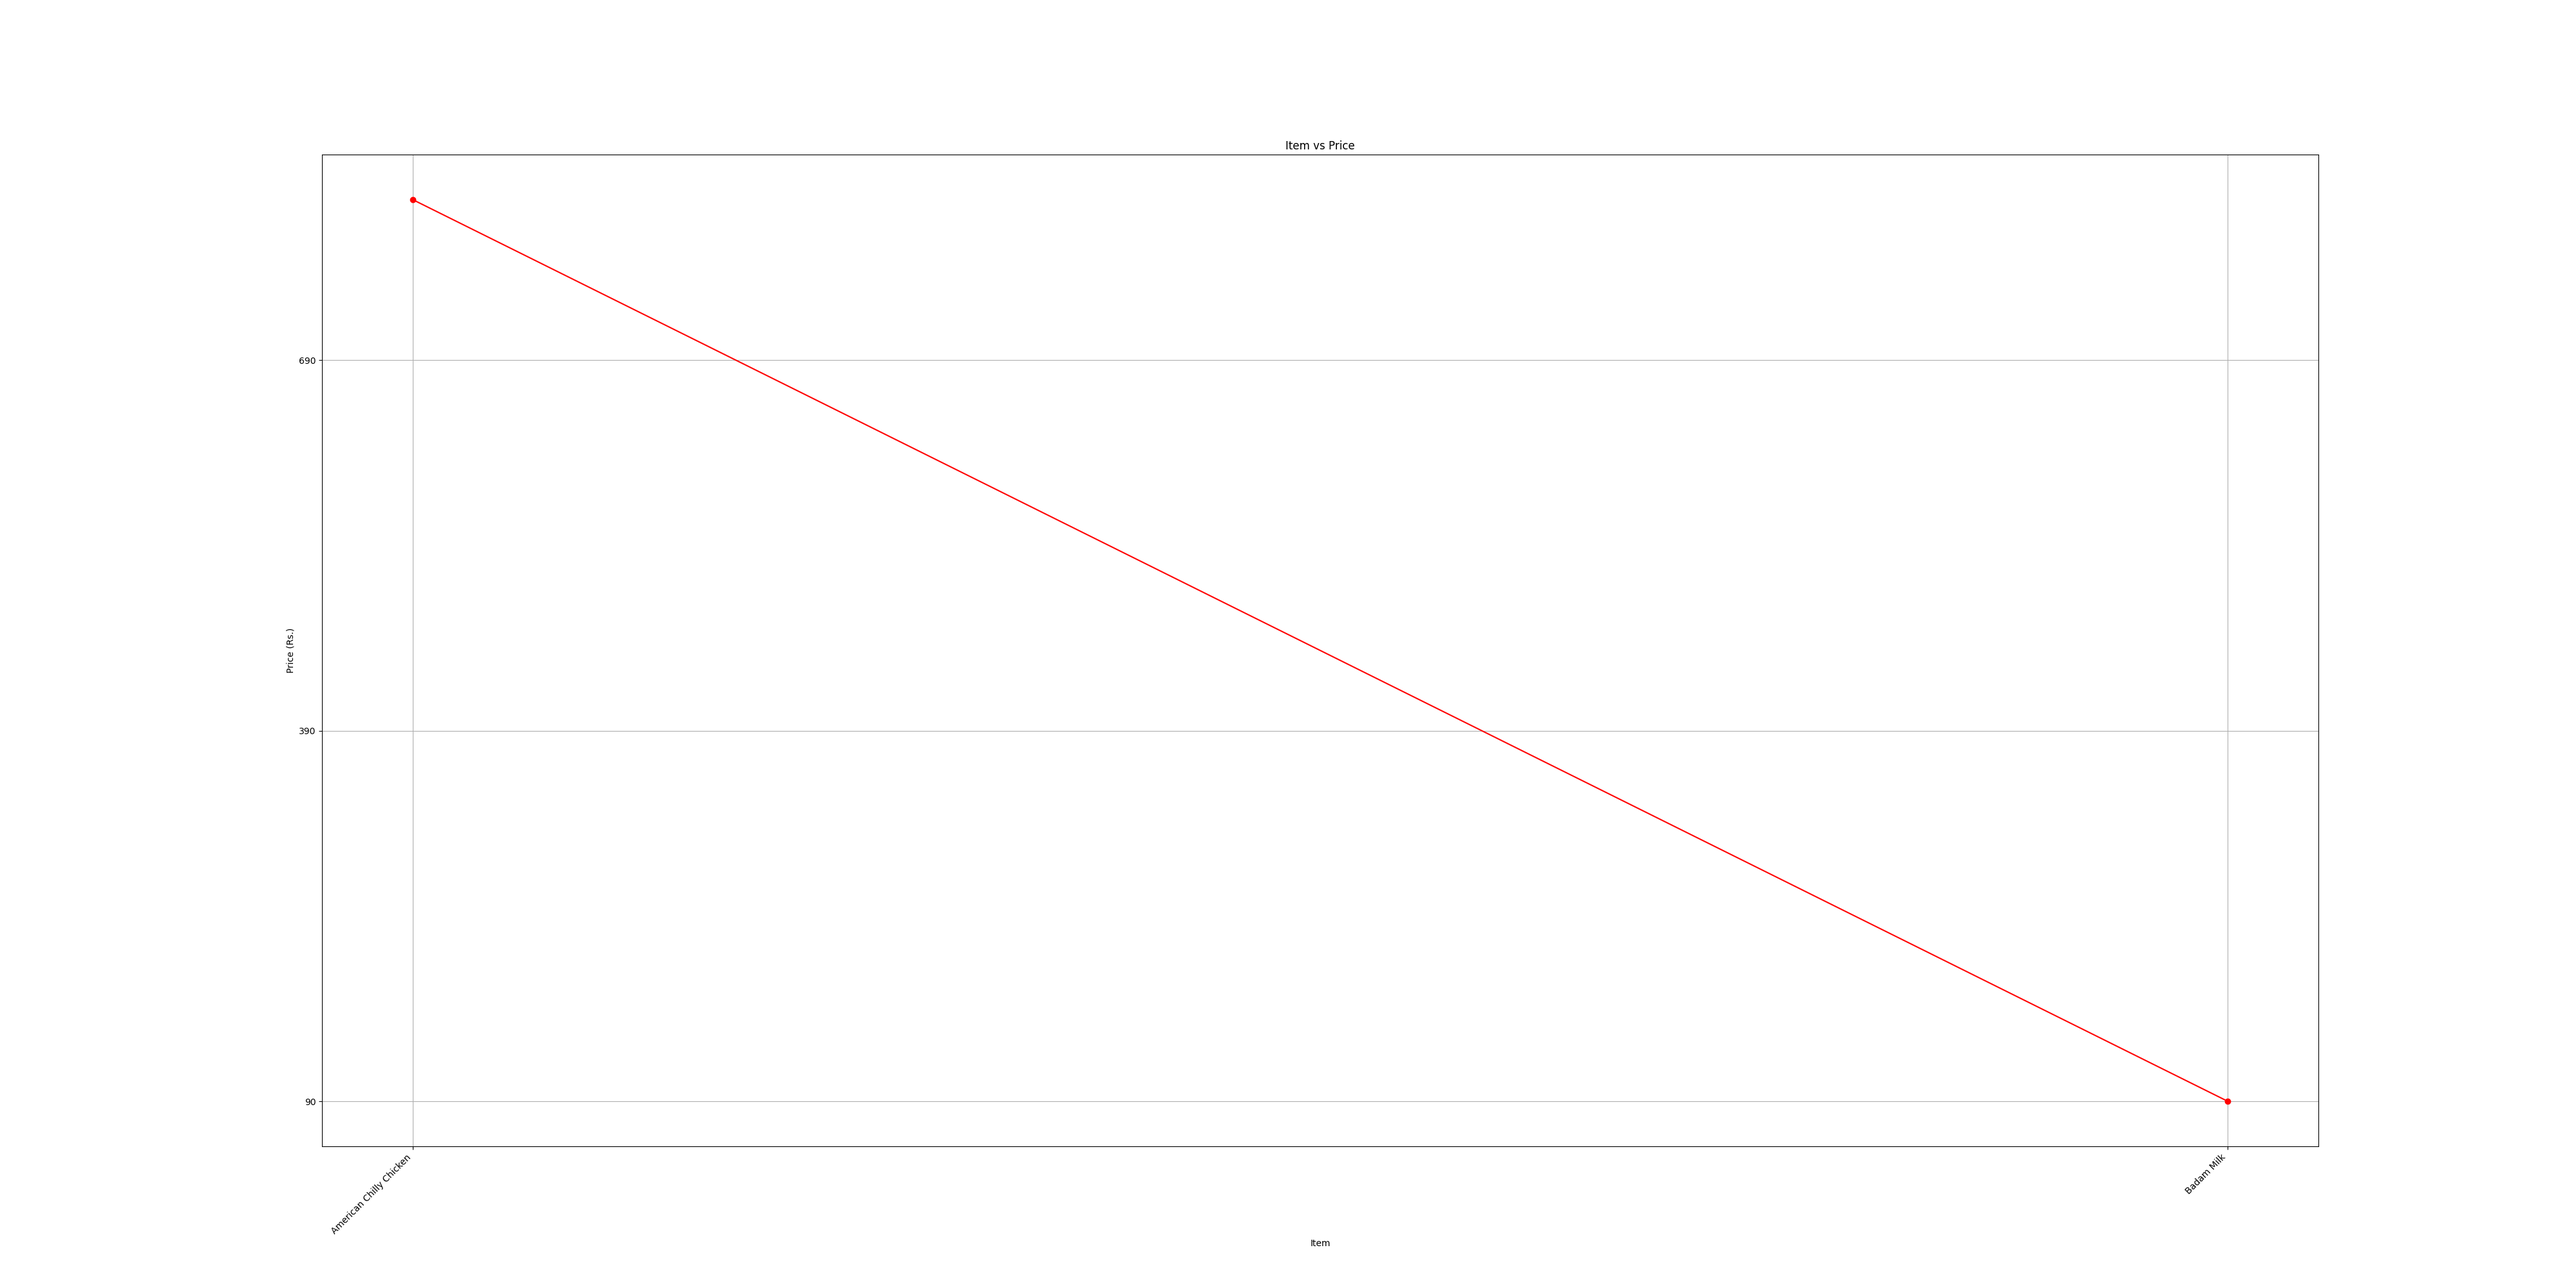
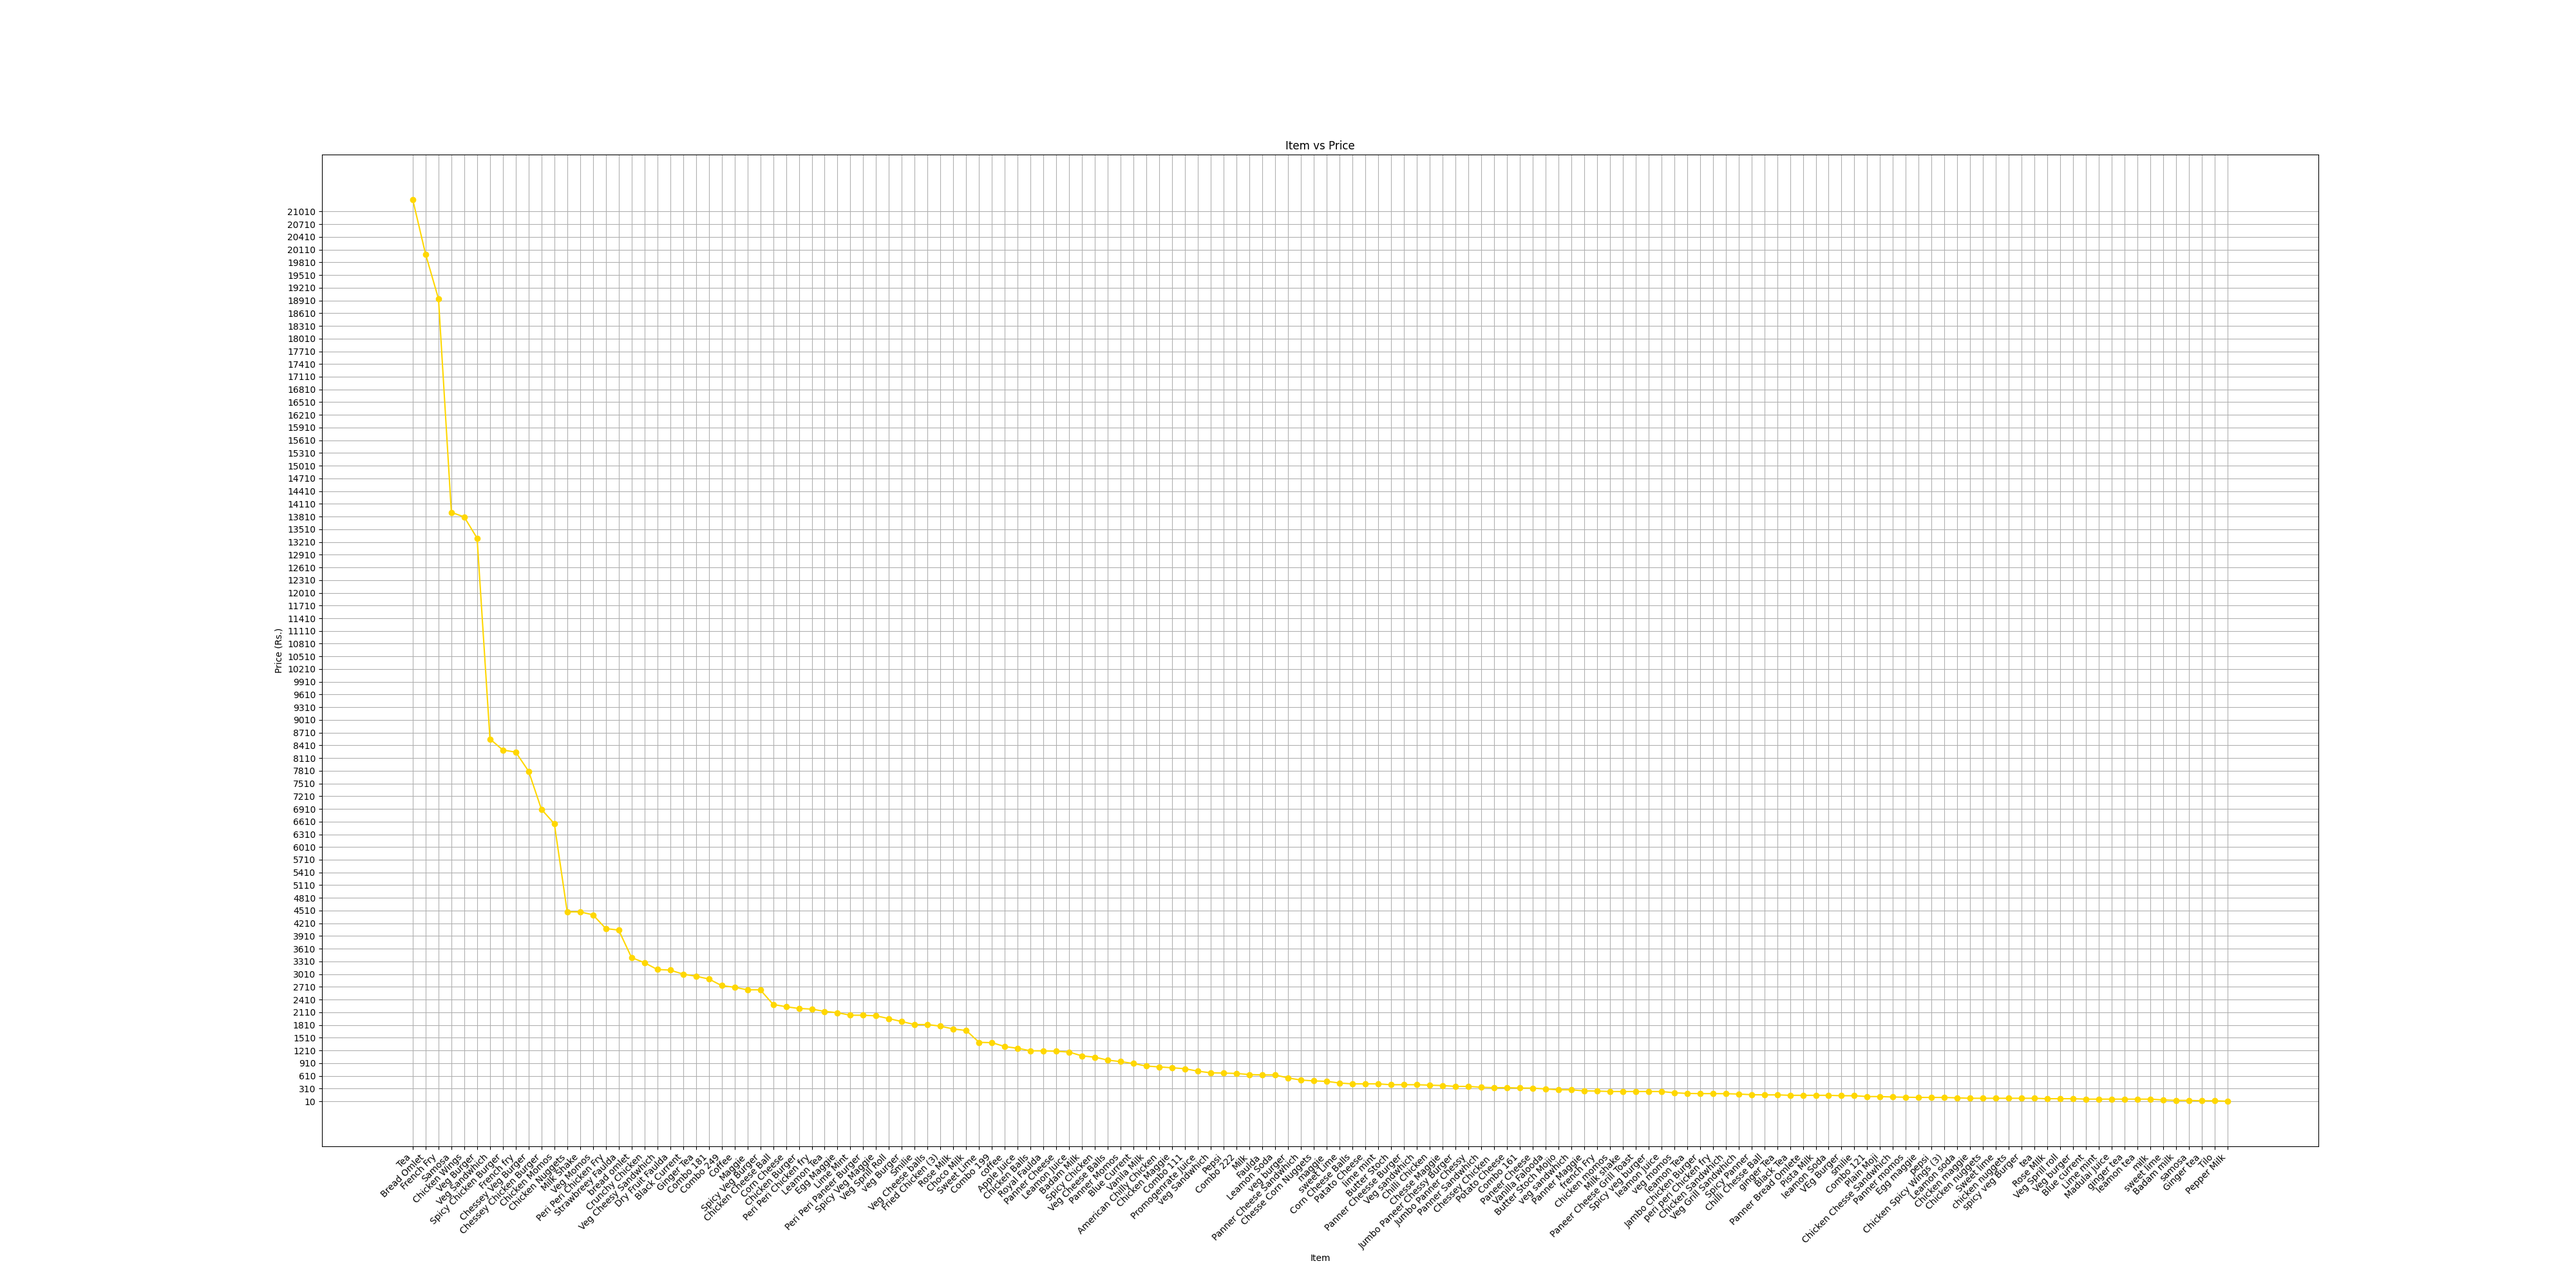
analysis is working

diff --git a/src/main.py b/src/main.py
@@ -151,8 +151,8 @@ def dailyAnalysis():
     Dqty = dict(sorted(Dqty.items(), key=lambda x: x[1], reverse=True))
     Dprice = dict(sorted(Dprice.items(), key=lambda x: x[1], reverse=True))
 
-    fnameItemPrice = plotItemGraph(Dprice.keys(), Dprice.values(), "Item vs Price")
-    fnameItemQty = plotItemGraph(Dqty.keys(), Dqty.values(), "Item vs Qty")
+    fnameItemPrice = plotItemGraph(Dprice.keys(), Dprice.values(), "Item vs Price", size=True)
+    fnameItemQty = plotItemGraph(Dqty.keys(), Dqty.values(), "Item vs Qty", size=True)
 
     filename = [fnameItemPrice, fnameItemQty, fnameDatePrice, fnameDateQty]
     title = ["Item vs Price", "Item vs Qty", "Date vs Price", "Date vs Qty"]
@@ -264,8 +264,8 @@ def todayAnalysis():
     Dqty = dict(sorted(Dqty.items(), key=lambda x: x[1], reverse=True))
     Dprice = dict(sorted(Dprice.items(), key=lambda x: x[1], reverse=True))
 
-    fnameItemPrice = plotItemGraph(Dprice.keys(), Dprice.values(), "Item vs Price")
-    fnameItemQty = plotItemGraph(Dqty.keys(), Dqty.values(), "Item vs Qty")
+    fnameItemPrice = plotItemGraph(Dprice.keys(), Dprice.values(), "Item vs Price", size=False)
+    fnameItemQty = plotItemGraph(Dqty.keys(), Dqty.values(), "Item vs Qty", size=False)
 
     filename = [fnameItemPrice, fnameItemQty]
     title = ["Item vs Price", "Item vs Qty", "Price Table", "Qty. Table"]
@@ -309,26 +309,31 @@ def fetchMenu():
     return (menuDict)
 
 
-def plotItemGraph(X, Y, title):
-    plt.figure(figsize=(40, 20))
-    plt.plot(X, Y, marker='o', color="red")
-    ytick = range(int(min(Y)), int(max(Y)), 60)
+def plotItemGraph(X, Y, title, size):
+    if size == False:
+        fig, ax = plt.subplots()  # Create a new figure and axes for each graph
+        ax.plot(X, Y, marker='o', color="gold")
+    else:
+        fig, ax = plt.subplots(figsize=(40, 20))  # Set the desired width and height of the figure
+        ax.plot(X, Y, marker='o', color="gold")
+        ytick = range(int(min(Y)), int(max(Y)), 300)
+        ax.set_yticks(list(ytick))
 
     label = title.split(" vs ")
     xlabel = label[0]
     ylabel = label[1]
 
-    if 'Price' in title:
-        ytick = range(int(min(Y)), int(max(Y)), 300)
+    if 'Price' in title and size:
         ylabel += " (Rs.)"
 
-    plt.xlabel(xlabel)
-    plt.ylabel(ylabel)
+    ax.set_xlabel(xlabel)
+    ax.set_ylabel(ylabel)
 
-    plt.yticks(ytick)
-    plt.title(title)
-    plt.xticks(rotation=45, ha='right')
-    plt.grid(True)
+    ax.set_title(title)
+    ax.set_xticklabels(X, rotation=45, ha='right')  # Corrected method name
+
+    ax.grid(True)
+
     filename = f"{title}-{str(datetime.now().strftime('%B %d, %Y'))}".replace(" ", "")
     plt.savefig(f"./static/graphs/{filename}.png")
     return f"./static/graphs/{filename}.png"
